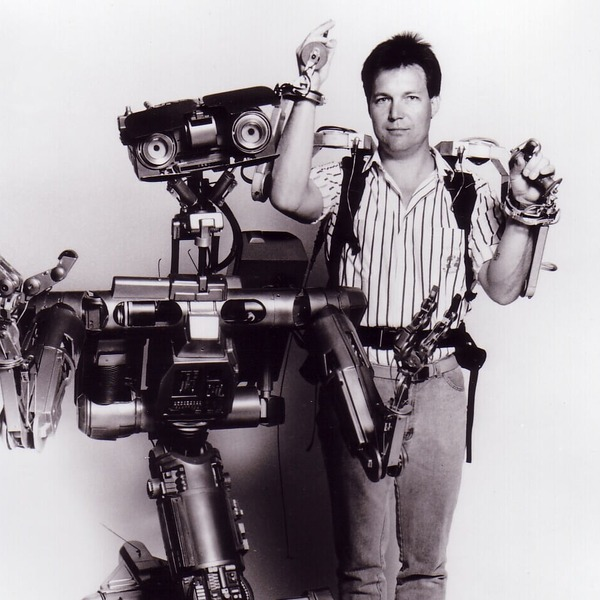
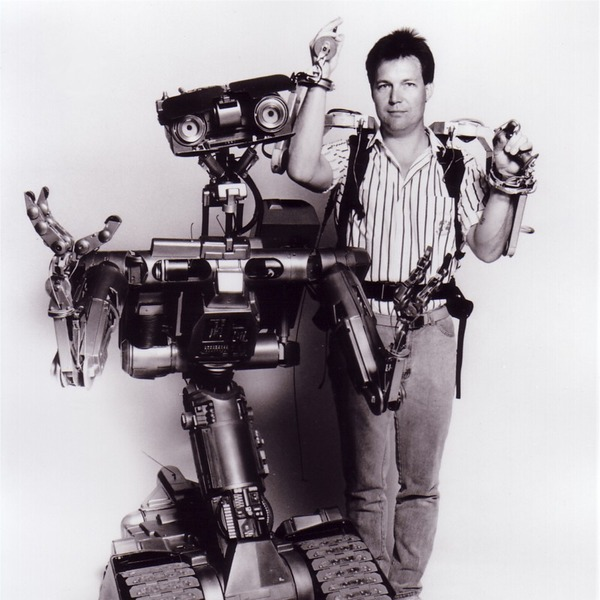
2026 confirmed speakers

diff --git a/website/workshop/2026/index.html b/website/workshop/2026/index.html
@@ -196,7 +196,7 @@
 					</div>
 
 					<!--<h2><strong>Confirmed Speakers</strong></h2>-->
-					<p>More speakers are being confirmed &mdash; check back soon.</p>
+					<p>More speakers incoming! &mdash; check back soon.</p>
 
 					<div id="speaker_face_flex_grid">
 
@@ -222,7 +222,8 @@
 
 									<p>Eric began as an artist and maker, served in US Army Special Forces, and worked his way up in Hollywood from carpenter to running his own effects company. He is a US patent holder in robotics and now consults on real-world humanoid robots through Robonality&trade;, helping make future robots more user-friendly and likable.</p>
 
-									<p><a target="_blank" href="https://www.imdb.com/name/nm0020063/">IMDb</a> &middot;
+									<p><a target="_blank" href="https://www.allfx.com/">allfx.com</a> &middot;
+									<a target="_blank" href="https://www.imdb.com/name/nm0020063/">IMDb</a> &middot;
 									<a target="_blank" href="https://www.linkedin.com/in/eric-allard-001802125/">LinkedIn</a></p>
 
 									<hr>
@@ -286,13 +287,14 @@
 
 								<div class="text-content short-text">
 								<br>
-									<p>Moshe Mahler is an award-winning professional innovator, animator, and storyteller whose work has been featured in attractions at Disney Parks and Resorts and shown worldwide at prestigious venues including SIGGRAPH, UIST, Comic Con, and Ars Electronica. Mahler's animated short film, &ldquo;The Art of Weightlessness&rdquo; won SIGGRAPH's Best in Show Award in 2024, and qualified for an Academy Award. For nearly a decade, Mahler led The Creative Technology Team at Disney Research of The Walt Disney Company, where he served as the Principal Artist. Under his supervision, the team worked hand in hand with elite Research Scientists to invent and utilize new technologies across the Walt Disney Company, collaborating with Pixar, Walt Disney Animation Studios, Disney Consumer Products, Disney Television Animation, Imagineering, and more. Mahler has authored more than a dozen technical paper publications at premiere conferences and is an inventor of four issued patents. Moshe currently holds a Faculty position at <a target="_blank" href="https://www.etc.cmu.edu/">The Entertainment Technology Center</a> of Carnegie Mellon University and is a Principal and Owner of <a target="_blank" href="http://bigemotiontech.com/">BIG eMotion Technologies</a>.</p>
+									<p>Moshe Mahler is an award-winning professional innovator, animator, and storyteller whose work has been featured in attractions at Disney Parks and Resorts and shown worldwide at prestigious venues including SIGGRAPH, UIST, Comic Con, and Ars Electronica. Mahler's animated short film, &ldquo;The Art of Weightlessness&rdquo; won SIGGRAPH's Best in Show Award in 2024, and qualified for an Academy Award. For nearly a decade, Mahler led The Creative Technology Team at Disney Research of The Walt Disney Company, where he served as the Principal Artist. Under his supervision, the team worked hand in hand with elite Research Scientists to invent and utilize new technologies across the Walt Disney Company, collaborating with Pixar, Walt Disney Animation Studios, Disney Consumer Products, Disney Television Animation, Imagineering, and more. Mahler has authored more than a dozen technical paper publications at premiere conferences and is an inventor of four issued patents. Moshe currently holds a Faculty position at <a target="_blank" href="https://www.etc.cmu.edu/">The Entertainment Technology Center</a> of Carnegie Mellon University and is a Principal and Owner of <a target="_blank" href="https://bigemotiontech.com/">BIG eMotion Technologies</a>.</p>
 
 									<p>Moshe received his BFA from Carnegie Mellon University in 2003. While completing his artistic studies, Moshe joined Stage 3, an interdisciplinary research group at Carnegie Mellon, created and led by Prof. Randy Pausch. Upon graduation, Mahler joined The Carnegie Mellon Graphics Lab as a Senior Animation Designer under the direction of Prof. Jessica Hodgins. From 2011-2018 Moshe was a creative technology lead for Disney Research of The Walt Disney Company. Moshe was also a founding member of Tulco Labs, Thomas Tull's tech studio.</p>
 
 									<p>Moshe has contributed to dozens of publications in the computer graphics and animation fields. His art works and animated films have been featured in a number of venues internationally, including SIGGRAPH 2005, 2007, 2011, 2013, 2015, 2017, 2023, and 2024.</p>
 
 									<p><a target="_blank" href="https://www.momahler.com/">momahler.com</a> &middot;
+									<a target="_blank" href="https://bigemotiontech.com/">bigemotiontech.com</a> &middot;
 									<a target="_blank" href="https://www.linkedin.com/in/moshe-mahler-6969233/">LinkedIn</a></p>
 
 									<hr>
